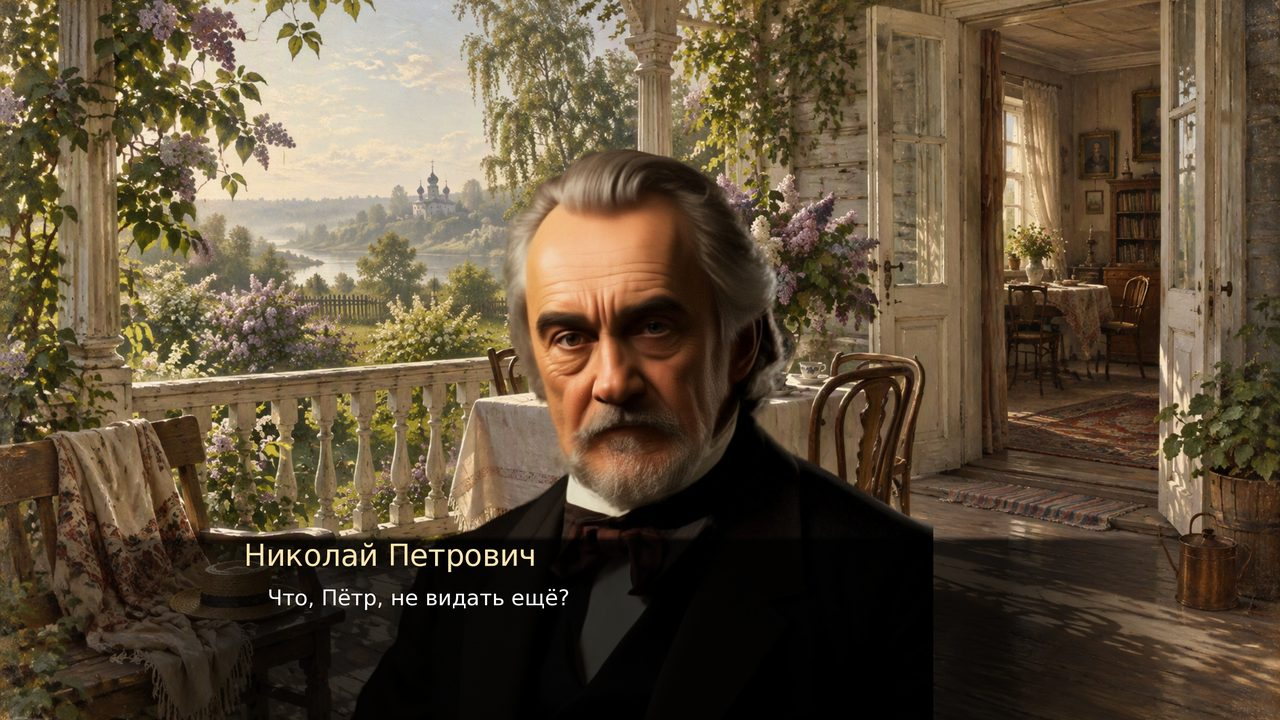
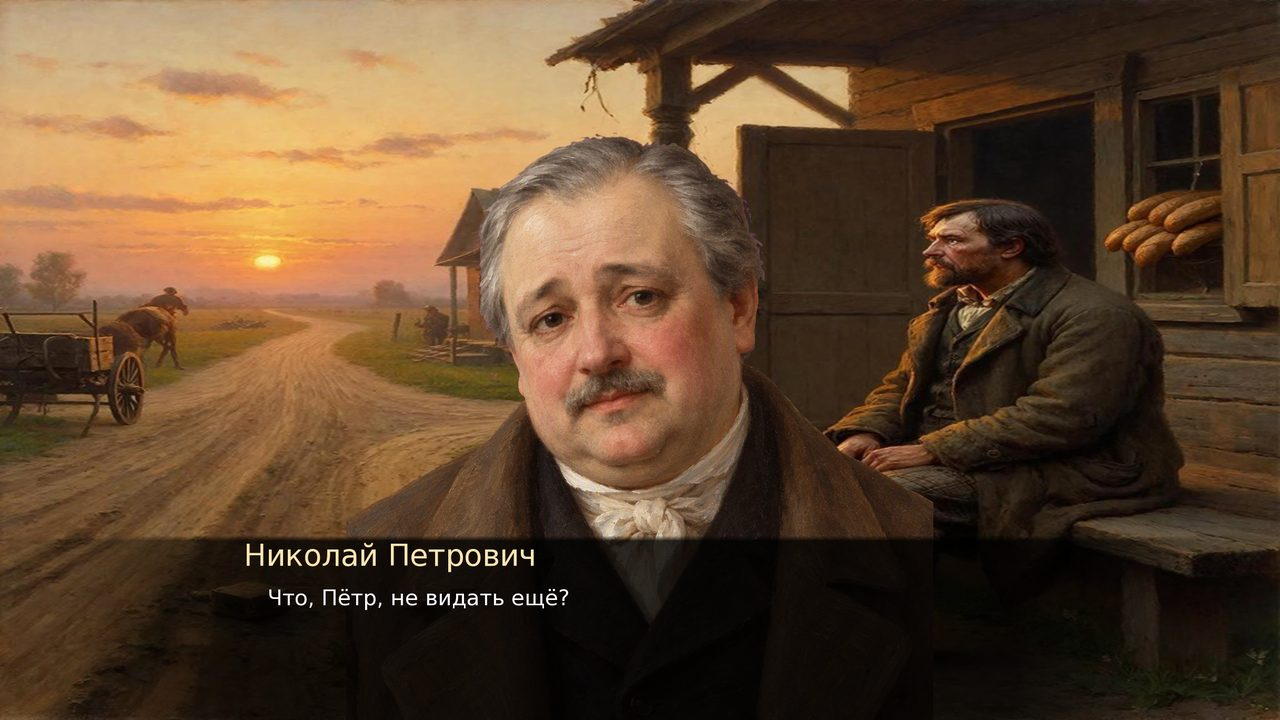
Спрайты по дословным портретам романа
Прежние лица рисовались «от эпохи», из-за чего Николай и Павел
Кирсановы выглядели одним человеком, а Катя и Фенечка — сестрами
наоборот. Каждый из десяти спрайтов переписан по цитате Тургенева:
Базаров — длинное худое лицо, широкий лоб, заостренный книзу нос,
большие зеленоватые глаза, бакенбарды песочного цвету; Павел —
желчное безморщинное лицо, стрижка «новое серебро», низенький
галстух; Николай — седой, пухленький, небольшие черные глаза;
Катя — черноволосая и смуглая; Фенечка — беленькая, с голубой
косынкой; Арина — чепец с лентами и родинки; Пётр — бирюзовая
серьга и беловатый пух на подбородке.

Галерея README снята заново тем же движком, подписи кадров
приведены в соответствие с фоном.

diff --git a/README.md b/README.md
@@ -4,7 +4,7 @@
 
 **Визуальная новелла по роману И. С. Тургенева**
 
-`Ren'Py 8.5.2` · `12 сцен` · `14 карточек глав` · `17 развилений` · `3 концовки` · `нейроозвучка`
+`Ren'Py 8.5.2` · `12 сцен` · `14 карточек глав` · `17 развилений` · `3 концовки` · `10 портретов по тексту` · `нейроозвучка`
 
 ![Сельское кладбище. Тихий летний вечер](docs/img/shot_s8_cemetery.jpg)
 
@@ -102,10 +102,29 @@
 <td><img src="docs/img/shot_s8_cemetery.jpg" alt="Могила"></td>
 </tr>
 <tr>
-<td>«Порядочный химик в двадцать раз полезнее всякого поэта»</td>
+<td>Василий Иванович и Арина Власьевна встречают сына — главы XXV–XXVI</td>
 <td>Эпилог · 2 — финальная сцена</td>
 </tr>
 </table>
+
+## Лица героев
+
+Каждый спрайт написан заново — по дословному портрету из романа, а не по
+условному «типичному барину». Отсюда и разница между двумя Кирсановыми,
+которую в книге не спутаешь.
+
+| | Что говорит Тургенев |
+|:--|:--|
+| **Базаров** | «Длинное и худое, с широким лбом, кверху плоским, книзу заостренным носом, большими зеленоватыми глазами и висячими бакенбардами песочного цвету…» · «Его темно-белокурые волосы, длинные и густые, не скрывали крупных выпуклостей просторного черепа». |
+| **Павел Петрович** | «…человек среднего роста, одетый в темный английский сьют, модный низенький галстух и лаковые полусапожки»; «коротко остриженные седые волосы отливали темным блеском, как новое серебро; лицо его, желчное, но без морщин, необыкновенно правильное и чистое». |
+| **Николай Петрович** | «…уже совсем седого, пухленького и немного сгорбленного»; «черты имел маленькие, приятные, но несколько грустные, небольшие черные глаза и мягкие жидкие волосы». |
+| **Аркадий** | «…к безбородой, запыленной и загорелой щеке молодого кандидата»; голос «несколько сиплый от дороги, но звонкий юношеский». |
+| **Анна Сергеевна** | «…женщина высокого роста, в черном платье»; «спокойно и умно, именно спокойно, а не задумчиво, глядели светлые глаза из-под немного нависшего белого лба». |
+| **Катя** | «…девушка лет восемнадцати, черноволосая и смуглая, с несколько круглым, но приятным лицом, с небольшими темными глазами». |
+| **Фенечка** | «…молодая женщина лет двадцати трех, вся беленькая и мягкая, с темными волосами и глазами, с красными, детски пухлявыми губками»; «голубая новая косынка легко лежала на ее круглых плечах». |
+| **Василий Иванович** | «…высокого, худощавого человека, с взъерошенными волосами и тонким орлиным носом, одетого в старый военный сюртук нараспашку»; ленточку с сюртука он «велел спороть». |
+| **Арина Власьевна** | «…ее круглое лицо, которому одутловатые, вишневого цвета губки и родинки на щеках и над бровями придавали выражение очень добродушное»; «надела высокий чепец с шелковыми лентами и голубую шаль с разводами». |
+| **Пётр** | «…молодого и щекастого малого с беловатым пухом на подбородке и маленькими тусклыми глазенками»; «и бирюзовая сережка в ухе, и напомаженные разноцветные волосы». |
 
 ## Озвучка
 
